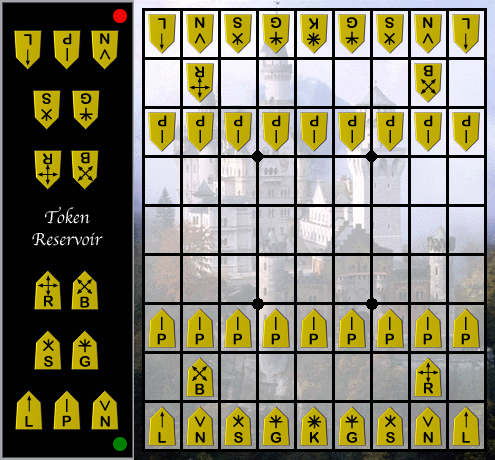
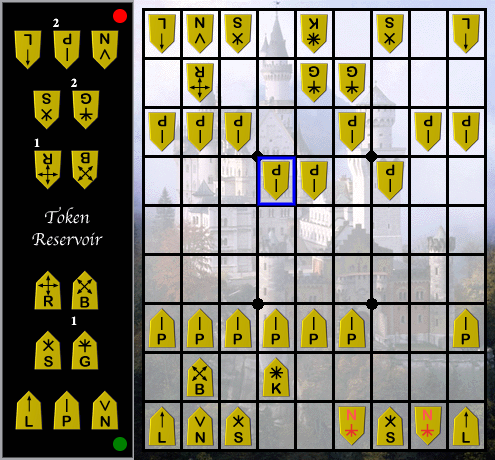
Updated Heuristic and prevented repeat moves

diff --git a/Search.go b/Search.go
@@ -24,7 +24,7 @@ type ShogiState struct {
 }
 
 func (m Move) String() string {
-	s := fmt.Sprintf("%d %d %d %d\n", m.curr.x+1, m.curr.y+1, m.final.x+1, m.final.y+1)
+	s := fmt.Sprintf("%d %d %d %d", m.curr.x+1, m.curr.y+1, m.final.x+1, m.final.y+1)
 	return s
 }
 
@@ -250,8 +250,8 @@ func Succ(state ShogiState, player int) []ShogiState {
 					moves = []int{-1, 1, 0, 1, 1, 1, 0, -1, 1, 0, 0, -1}
 				}
 				for j := 0; j <= len(moves)-2; j += 2 {
-					NewX := state.pieces[j].x + moves[j]
-					NewY := state.pieces[j].y + moves[j+1]
+					NewX := state.pieces[i].x + moves[j]
+					NewY := state.pieces[i].y + moves[j+1]
 					NewState := MakeMove(state, player, NewX, NewY, i)
 					NewState.parent = &state
 					if !state.Equal(NewState) {
@@ -386,8 +386,8 @@ func Succ(state ShogiState, player int) []ShogiState {
 				var moves []int
 				moves = []int{-1, -1, 0, -1, 1, -1, -1, 1, 1, 1, 1, 0, -1, 0, 0, 1}
 				for j := 0; j <= len(moves)-2; j += 2 {
-					NewX := state.pieces[j].x + moves[j]
-					NewY := state.pieces[j].y + moves[j+1]
+					NewX := state.pieces[i].x + moves[j]
+					NewY := state.pieces[i].y + moves[j+1]
 					NewState := MakeMove(state, player, NewX, NewY, i)
 					NewState.parent = &state
 					if !state.Equal(NewState) {
@@ -422,8 +422,8 @@ func Succ(state ShogiState, player int) []ShogiState {
 				var moves []int
 				moves = []int{0, 1, -1, 0, 1, 0, 0, -1}
 				for j := 0; j <= len(moves)-2; j += 2 {
-					NewX := state.pieces[j].x + moves[j]
-					NewY := state.pieces[j].y + moves[j+1]
+					NewX := state.pieces[i].x + moves[j]
+					NewY := state.pieces[i].y + moves[j+1]
 					NewState := MakeMove(state, player, NewX, NewY, i)
 					NewState.parent = &state
 					if !state.Equal(NewState) {
@@ -458,8 +458,8 @@ func Succ(state ShogiState, player int) []ShogiState {
 				var moves []int
 				moves = []int{1, 1, -1, 1, 1, -1, -1, -1}
 				for j := 0; j <= len(moves)-2; j += 2 {
-					NewX := state.pieces[j].x + moves[j]
-					NewY := state.pieces[j].y + moves[j+1]
+					NewX := state.pieces[i].x + moves[j]
+					NewY := state.pieces[i].y + moves[j+1]
 					NewState := MakeMove(state, player, NewX, NewY, i)
 					NewState.parent = &state
 					if !state.Equal(NewState) {
@@ -547,7 +547,32 @@ func auxMiniMax(state ShogiState, player, depth int, max bool) int {
 	}
 }
 
-func MiniMax(state ShogiState, player, depth int) (Move, error) {
+func (m1 Move) MoveEqual(m2 Move) bool {
+	if m1.curr.x != m2.curr.x {
+		return false
+	}
+	if m1.curr.y != m2.curr.y {
+		return false
+	}
+	if m1.final.x != m2.final.x {
+		return false
+	}
+	if m1.final.y != m2.final.y {
+		return false
+	}
+	return true
+}
+
+func (state Move) isDup(history []Move) bool {
+	for i := 0; i < len(history); i++ {
+		if state.MoveEqual(history[i]) {
+			return true
+		}
+	}
+	return false
+}
+
+func MiniMax(state ShogiState, player, depth int, history []Move) (Move, error) {
 	//Totally untested, und highly dangerous! (waiting for Succ)
 	if state.IsGoal(player) {
 		return Move{}, fmt.Errorf("You won dufus! Email all your friends!")
@@ -557,14 +582,19 @@ func MiniMax(state ShogiState, player, depth int) (Move, error) {
 	var vals []int
 	var finalKids []ShogiState
 	for i := 0; i < len(kids); i++ {
-		_, err := diff(state, kids[i]) //rm duplicates
+		kdiff, err := diff(state, kids[i]) //rm duplicates
 		if err != nil {
 			continue
 		}
+		if kdiff.isDup(history) {
+			continue
+		}
+
 		// fmt.Println(k)
 		// fmt.Println(kids[i])
 		val := auxMiniMax(kids[i], player, depth-1, false)
 		vals = append(vals, val)
+		history = append(history, kdiff)
 		finalKids = append(finalKids, kids[i])
 	}
 

diff --git a/main.go b/main.go
@@ -35,7 +35,7 @@ func (state ShogiState) updateCoords(coords []string) ShogiState {
 	for i := 0; i < len(state.pieces); i++ {
 		if state.pieces[i].x == currX && state.pieces[i].y == currY {
 			piece := newState.pieces[i].name
-			newState.board[newState.pieces[i].y][newState.pieces[i].x] = "O"
+			newState.board[newState.pieces[i].y][newState.pieces[i].x] = "h"
 			newState.board[finalY][finalX] = piece //update board
 			newState.pieces[i].x = finalX          //update piece
 			newState.pieces[i].y = finalY
@@ -62,23 +62,32 @@ func main() {
 		parent: nil,
 	}
 	player := 2
-	searchDepth := 1
+	searchDepth := 2
+	var history []Move
+	// var oldData []byte
+	var data []byte
 
 	for {
 		fmt.Println(state)
-		m, err := MiniMax(state, player, searchDepth)
+		m, err := MiniMax(state, player, searchDepth, history)
 		if err != nil {
 			panic(err)
 		}
 		fmt.Println(m)
+		coords := strings.Split(m.String(), " ")
+		state = state.updateCoords(coords)
 		ioutil.WriteFile("./NodeScriptShogAI/move.txt", []byte(m.String()), 0644)
-		time.Sleep(time.Second)
-		data, err := ioutil.ReadFile("./NodeScriptShogAI/board.txt")
+
+		time.Sleep(1 * time.Second)
+
+		data, err = ioutil.ReadFile("./NodeScriptShogAI/board.txt")
 		if err != nil {
 			panic(err)
 		}
-		coords := strings.Split(string(data), " ")
+		coords = strings.Split(string(data), " ")
+		history = append(history, m)
 		state = state.updateCoords(coords)
+
 		if state.IsGoal(player) {
 			fmt.Println("We won!")
 			break

diff --git a/Heuristic.go b/Heuristic.go
@@ -37,12 +37,14 @@ var PieceValue = map[string]int{
 
 func h1(board [][]string) int {
 	p1Value := scan(board, "1")
-	return p1Value
+	p2Value := scan(board, "2")
+	return p1Value - p2Value
 }
 
 func h2(board [][]string) int {
 	p2Value := scan(board, "2")
-	return p2Value
+	p1Value := scan(board, "1")
+	return p2Value - p1Value
 }
 
 func scan(board [][]string, player string) int {
